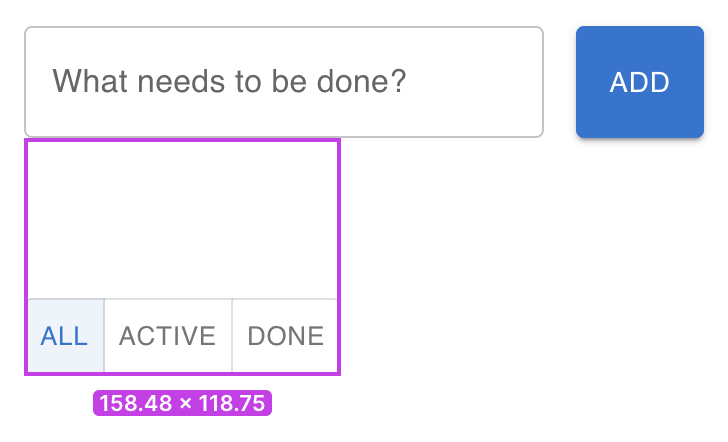
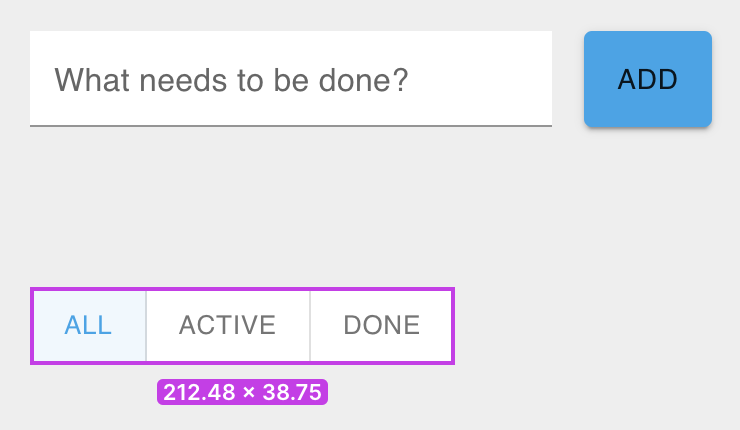
Style updates Mostly to the app but also some improvements to the instructions

diff --git a/src/instructions.jsx b/src/instructions.jsx
@@ -18,12 +18,23 @@ const theme = createTheme({
     fontFamily: "Oracle, sans-serif",
     fontSize: 12,
     h1: {
+      fontSize: 60,
       fontWeight: 500,
+      letterSpacing: -1.5,
+    },
+    body1: {
+      fontSize: 16,
+    },
+    body2: {
+      fontSize: 14,
     },
   },
   palette: {
     primary: {
       main: "#582AB9",
+    },
+    text: {
+      primary: "#fcfdf8",
     },
   },
   components: {
@@ -36,6 +47,13 @@ const theme = createTheme({
         root: {
           borderRadius: 0,
           shadow: "none",
+          paddingTop: 7,
+          paddingBottom: 7,
+          paddingLeft: 15,
+          paddingRight: 15,
+          textTransform: "none",
+          fontSize: 13,
+          fontWeight: 400,
         },
       },
     },
@@ -84,7 +102,8 @@ function Instructions({ fullPage, children }) {
             height: "100vh",
             borderStyle: "solid",
             borderColor: "#F0EFED",
-            backgroundColor: "#FCFDF8",
+            backgroundColor: "#19163E",
+            color: "#fcfdf8",
             borderWidth: 0,
             borderRightWidth: fullPage ? "0" : "1px",
             boxSizing: "border-box",
@@ -147,15 +166,17 @@ function Step0() {
   return (
     <Instructions fullPage>
       <Container maxWidth="sm">
-        <Typography variant="h1">Welcome</Typography>
-        <Typography variant="body1" my={3}>
-          Before we start editing an app, you’ll need to learn how to navigate
-          this tutorial. Clicking items on this page will select them, but if
-          you want to click them you’ll need to enter Test Drive.
+        <Typography variant="h1" mt={8}>
+          Welcome
+        </Typography>
+        <Typography variant="body1" my={1}>
+          This app teaches you how to use MightyMeld.
+        </Typography>
+        <Typography variant="body1" mt={6} mb={1}>
+          <strong>1.</strong> Click “Drive” in the toolbar.
         </Typography>
         <Box
           sx={{
-            border: 1,
             marginLeft: "auto",
             marginRight: "auto",
           }}
@@ -164,21 +185,20 @@ function Step0() {
           width="100%"
           alt="Clicking test drive toggle button"
         />
-        <Typography variant="body1" my={3}>
-          <strong>Your task:</strong> Enter test drive and click the button
-          below.
+        <Typography variant="body1" mt={4} mb={1}>
+          <strong>2.</strong> Click this button.
         </Typography>
-        <Box my={4}>
+        <Box>
           <Button onClick={click}>Click me</Button>
         </Box>
         {clicked && (
           <>
-            <Typography variant="body1" mt={3}>
+            <Typography variant="body1" mt={4} mb={1}>
               You clicked the button! Feel free to play with test drive, and
               continue when you’re ready.
             </Typography>
-            <Box mt={4}>
-              <Button component={Link} to="/step/1" variant="outlined">
+            <Box>
+              <Button component={Link} to="/step/1">
                 Continue →
               </Button>
             </Box>
@@ -195,10 +215,10 @@ function Step1() {
       <Typography variant="h5" mb={3}>
         Step 1: Play with the app
       </Typography>
-      <Typography variant="body1" my={3}>
+      <Typography variant="body2" my={3}>
         On the right you’ll see a to-do app. Let’s play with it a bit.
       </Typography>
-      <Typography variant="body1" my={3}>
+      <Typography variant="body2" my={3}>
         <strong>Your task:</strong> Add a new to-do called “Buy groceries”
       </Typography>
     </Instructions>
@@ -211,11 +231,11 @@ function Step2() {
       <Typography variant="h5" mb={3}>
         Step 2: Style Changes
       </Typography>
-      <Typography variant="body1" mt={3}>
+      <Typography variant="body2" mt={3}>
         The spacing above the filter buttons is a little too large. Let’s make
         that smaller.
       </Typography>
-      <Typography variant="body1" my={3}>
+      <Typography variant="body2" my={3}>
         <strong>Your task:</strong> Switch to edit mode and select the
         &lt;ToggleButtonGroup&gt;. Change <code>padding-top</code> from 10 to 4.
       </Typography>
@@ -245,23 +265,33 @@ function Step3() {
       <Typography variant="h5" mb={3}>
         Step 3: Code
       </Typography>
-      <Typography variant="body1" my={3}>
+      <Typography variant="body2" my={3}>
         You may have noticed the filter doesn’t do anything. Let’s fix that!
       </Typography>
-      <Typography variant="body1" my={3}>
+      <Typography variant="body2" my={3}>
         First, <strong>copy this code</strong>.
       </Typography>
       <TextField
+        variant="standard"
         fullWidth
         multiline
         rows={5}
         defaultValue={code}
-        inputProps={{
+        sx={{
+          backgroundColor: "background.paper",
+        }}
+        InputProps={{
+          disableUnderline: true,
           readOnly: true,
-          sx: { fontFamily: "monospace", fontSize: 12 },
+          sx: {
+            padding: 1,
+            fontFamily: "monospace",
+            color: "#000",
+            fontSize: 12,
+          },
         }}
       />
-      <Typography variant="body1" my={3}>
+      <Typography variant="body2" my={3}>
         Now open the relevent file in your editor by{" "}
         <strong>right-clicking</strong> the &lt;List&gt;.
       </Typography>
@@ -274,7 +304,7 @@ function Step3() {
           border: 1,
         }}
       />
-      <Typography variant="body1" my={3}>
+      <Typography variant="body2" my={3}>
         After <strong>pasting</strong> the code after <code>const labelId</code>
         , <strong>save the file</strong> and when you come back here, the filter
         buttons should be working!
@@ -289,10 +319,10 @@ function Step4() {
       <Typography variant="h5" mb={3}>
         Step 4: Git Diff
       </Typography>
-      <Typography variant="body1" my={3}>
+      <Typography variant="body2" my={3}>
         Let’s see what changes we’ve made so far.
       </Typography>
-      <Typography variant="body1" my={3}>
+      <Typography variant="body2" my={3}>
         <strong>Your task:</strong> Click on the diff icon in the toolbar.
       </Typography>
       <Box

diff --git a/src/app.jsx b/src/app.jsx
@@ -35,7 +35,7 @@ const theme = createTheme({
     },
   },
   palette: {
-    mode: "dark",
+    mode: "light",
     primary: {
       main: "#17a5ea",
     },
@@ -43,11 +43,8 @@ const theme = createTheme({
       main: "#2dd4bf",
     },
     background: {
-      default: "#0f172a",
-      paper: "#0f172a",
-    },
-    text: {
-      primary: "#94a3b8",
+      default: "#EEE",
+      paper: "#FFF",
     },
   },
 });
@@ -61,8 +58,8 @@ export default function App() {
     console.log(id);
     setTasks((tasks) =>
       tasks.map((task) =>
-        task.id === id ? { ...task, done: !task.done } : task,
-      ),
+        task.id === id ? { ...task, done: !task.done } : task
+      )
     );
   };
 
@@ -87,7 +84,7 @@ export default function App() {
         <Typography
           variant="h1"
           mb={3}
-          color="text.primary"
+          color="text.secondary"
           align="center"
           sx={{
             fontFamily:
@@ -98,13 +95,18 @@ export default function App() {
         </Typography>
         <Stack direction="row" spacing={2}>
           <TextField
-            variant="outlined"
+            variant="filled"
             size="small"
             label="What needs to be done?"
             value={newTaskName}
             onKeyDown={(e) => e.key === "Enter" && addTask()}
             onChange={(e) => setNewTaskName(e.target.value)}
             fullWidth
+            inputProps={{
+              sx: {
+                backgroundColor: "background.paper",
+              },
+            }}
           />
           <Button variant="contained" onClick={() => addTask()}>
             Add
@@ -118,26 +120,44 @@ export default function App() {
           onChange={(e, f) => setFilter(f)}
           aria-label="Filter"
           sx={{
-            paddingTop: 4,
-            paddingBottom: 1,
+            backgroundColor: "background.paper",
+            marginTop: 10,
+            marginBottom: 2,
           }}
         >
-          <ToggleButton disableRipple value="all">
+          <ToggleButton
+            disableRipple
+            value="all"
+            sx={{
+              px: 2,
+            }}
+          >
             All
           </ToggleButton>
-          <ToggleButton disableRipple value="active">
+          <ToggleButton
+            disableRipple
+            value="active"
+            sx={{
+              px: 2,
+            }}
+          >
             Active
           </ToggleButton>
-          <ToggleButton disableRipple value="done">
+          <ToggleButton
+            disableRipple
+            value="done"
+            sx={{
+              px: 2,
+            }}
+          >
             Done
           </ToggleButton>
         </ToggleButtonGroup>
-        <Paper>
-          <List>
-            {tasks.map((task) => {
-              const labelId = `checkbox-list-label-${task.id}`;
-
-              return (
+        <List>
+          {tasks.map((task) => {
+            const labelId = `checkbox-list-label-${task.id}`;
+            return (
+              <Paper elevation={0} sx={{ marginBottom: 1 }}>
                 <ListItem key={task.id} disablePadding>
                   <ListItemButton
                     onClick={() => toggleDone(task.id)}
@@ -149,7 +169,9 @@ export default function App() {
                         edge="start"
                         checked={task.done}
                         disableRipple
-                        inputProps={{ "aria-labelledby": labelId }}
+                        inputProps={{
+                          "aria-labelledby": labelId,
+                        }}
                       />
                     </ListItemIcon>
                     <ListItemText
@@ -162,10 +184,10 @@ export default function App() {
                     />
                   </ListItemButton>
                 </ListItem>
-              );
-            })}
-          </List>
-        </Paper>
+              </Paper>
+            );
+          })}
+        </List>
       </Box>
     </ThemeProvider>
   );
